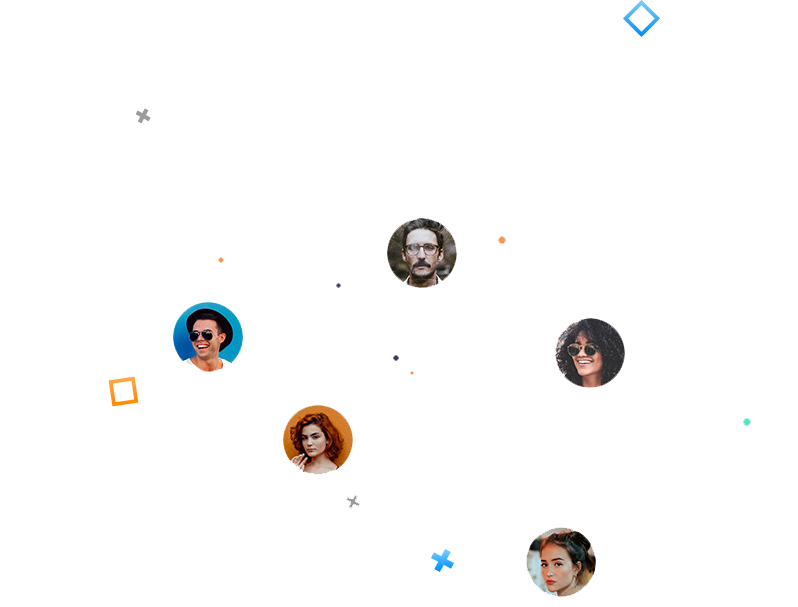
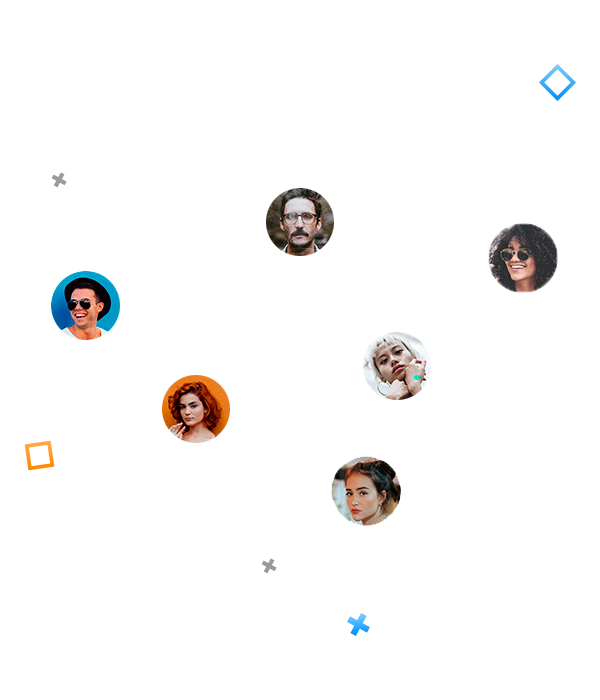
fixed

diff --git a/css/main.css b/css/main.css
@@ -37,7 +37,7 @@ img {
     background-color: #eaf2ff;
     padding-top: 8rem;
     padding-right: 0px;
-    padding-bottom: 18rem;
+    padding-bottom: 8rem;
     padding-left: 0px;
     position: relative;
 }
@@ -61,7 +61,7 @@ img {
     background-color: #ff8800;
     box-shadow: 0 0 70px rgba(255, 136, 0, 0.3);
     color: #fff;
-    font-weight: 500;
+    font-weight: 600;
     letter-spacing: 0.37px;
     transition: 0.3s ease-in-out;
 }
@@ -348,6 +348,7 @@ img {
     margin-top: 8rem;
 }
 
+
 .block-desc {
     color: #133d6f;
     font-size: 20px;
@@ -355,18 +356,34 @@ img {
     line-height: 32px;
 }
 
+.block-desc-1 {
+    color: #133d6f;
+    font-size: 20px;
+    font-weight: 500;
+    line-height: 32px;
+}
+
+.icon-box span {
+    color: #133d6f;
+    font-size: 20px;
+    font-weight: 600;
+    line-height: 24px;
+    margin-top: 15px;
+}
+
 .icon-box p {
     color: #133d6f;
-    font-size: 16px;
+    font-size: 18px;
     font-weight: 600;
     line-height: 24px;
     margin-top: 15px;
 }
 
 .rect {
-    width: 100%;
+    width: 177%;
     height: 291px;
     background-color: #2276ff;
+    margin-left: -399px;
 }
 
 .center img {
@@ -375,12 +392,12 @@ img {
     display: block;
     margin-left: auto;
     margin-right: auto;
-    margin-top: -10rem;
+    margin-top: -13rem;
 }
 
 .block-title h2 {
     color: #112d4e;
-    font-size: 36px;
+    font-size: 30px;
     font-weight: 700;
 }
 
@@ -636,11 +653,11 @@ ul#timer {
     content: "";
     margin-top: 12rem;
     top: 18.5%;
-    left: 34%;
+    left: 33%;
     transform: translate(-50%, -50%);
     background: url(../img/7-layers.png);
     width: 29%;
-    height: 48%;
+    height: 65%;
     -webkit-background-size: cover;
     -moz-background-size: cover;
     -o-background-size: cover;
@@ -743,6 +760,11 @@ ul#timer {
 
 .social-banner h3 {
     color: #fff;
+    font-size: 30px;
+    font-weight: 700;
+    line-height: 48px;
+    /* Text style for "Bizni ijti" */
+    letter-spacing: 0.36px;
 }
 
 .w-900 {
@@ -788,6 +810,11 @@ ul#timer {
 */
 
 @media (max-width:640px){
+
+    .rect {
+        width: 100%;
+        margin-left: 0 !important;
+    }
 
     .audio {
         display: none;
@@ -1035,6 +1062,11 @@ ul#timer {
 }
 
 @media (max-width:320px) {
+
+    .rect {
+        width: 100%;
+        margin-left: 0 !important;
+    }
 
     .audio {
         display: none;

diff --git a/index.html b/index.html
@@ -113,8 +113,8 @@
                 </div>
             </div>
             <div class="col-md-6">
-                <p class="block-desc"><strong>SMARTBOOK</strong> metodi oraqali til o’rganish uchun yosh emas balki
-                    biroz harakat muhimdir.</p>
+                <span class="block-desc-1"><strong>SMARTBOOK</strong> metodi oraqali til o’rganish uchun yosh emas balki
+                    biroz harakat muhimdir.</span>
 
                 <div class="row">
                     <div class="col-md-6 sm icon-box mt-4">
@@ -267,8 +267,9 @@
                                 <input type="text" class="form-control" placeholder="Ismingiz">
                             </div>
                             <div class="col-4 input-block">
-                                <input type="text" class="form-control" pattern="[0-9]*" inputmode="numeric"
-                                    placeholder="+998">
+                                <span id="userPhone-info" class="info"></span>
+                            <input type="text" class="form-control" pattern="[0-9]*" id="userPhone" required
+                                placeholder="998 90 123 4567" inputmode="numeric" placeholder="+998">
                             </div>
                             <div class="col">
                                 <a href="#" class="btn btn-xlg btn-orange btn-block">Buyurtma berish</a>
@@ -383,7 +384,7 @@
             <div class="social-banner mt-8">
                 <div class="text-left">
                     <h3>Bizni ijtimoiy <br>tarmoqlarda kuzating</h3>
-                    <a href="#" class="btn btn-lg btn-t-md btn-orange mt-4">Obuna bo'lish</a>
+                    <a href="#" class="btn btn-xlg btn-orange mt-4">Obuna bo'lish</a>
                 </div>
             </div>
         </div>
